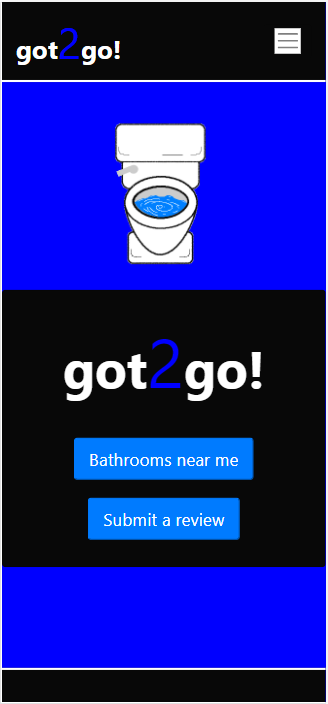
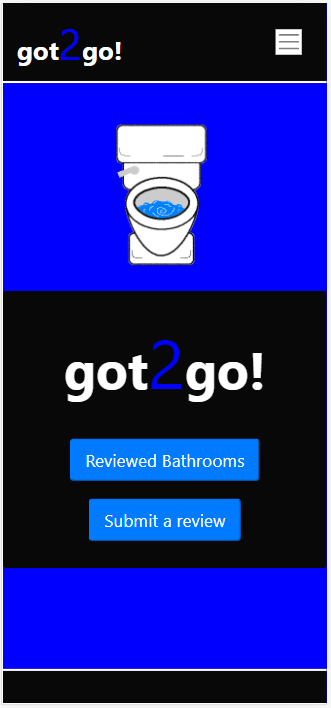
updated readme

Changed region(s): [[0.0, 0.0, 1.0, 1.0], [0.3963, 0.1562, 0.6402, 0.375], [0.8232, 0.0312, 0.9146, 0.0938]]

diff --git a/public/brReview.html b/public/brReview.html
@@ -13,7 +13,7 @@
         integrity="sha384-ho+j7jyWK8fNQe+A12Hb8AhRq26LrZ/JpcUGGOn+Y7RsweNrtN/tE3MoK7ZeZDyx"
         crossorigin="anonymous"></script>
     <link rel="stylesheet" href="./css/styles.css">
-    <title>got2go! Review</title>
+    <title>got2go! Submit Review</title>
 </head>
 
 <body>
@@ -115,7 +115,7 @@
                             aria-describedby="inputGroup-sizing-default">
                     </div>
                     <div class="row justify-content-center">
-                        <a href="#" class="btn btn-primary text-center">Submit Review</a>
+                        <a href="./brSearch.html" class="btn btn-primary text-center">Submit Review</a>
                     </div>
                 </div>
             </div>

diff --git a/public/brSearch.html b/public/brSearch.html
@@ -14,7 +14,7 @@
         crossorigin="anonymous"></script>
     <script src="https://maps.googleapis.com/maps/api/js?key=AIzaSyDgyFqoQN9yTK2_PpFtv5qgO3ynJdL9Bls&libraries=places"></script>
     <link rel="stylesheet" href="./css/styles.css">
-    <title>got2go! Search</title>
+    <title>got2go! Reviewed Bathrooms</title>
 </head>
 
 <body onload="getPlacesLocation()">

diff --git a/README.md b/README.md
@@ -3,7 +3,7 @@
 
 ## Description
 
-A user friendly application that allows the user to search for a specific public bathroom as well as bathrooms near them with ratings from previous users to go along with their search. The user will have the option to submit their own review of their experience as well. Enjoy! 
+A user friendly application that allows the user to submit a review of a public bathroom. 
 
 ## Table of Contents 
 
@@ -13,15 +13,15 @@ A user friendly application that allows the user to search for a specific public
 
 * [License](#license)
 
-* [Contributing](#contributing)
-
 * [Tests](#tests)
 
 * [Links](#links)
 
 * [Screenshots](#screenshots)
 
-* [Contributors](#contributors)
+* [Creators](#creators)
+
+* [Contributing](#contributing)
 
 * [Questions](#questions)
 
@@ -35,23 +35,20 @@ npm i
 
 ## Usage
 
-No dev or global dependencies are required
+* add
+* cordova
+* cordova-plugin-geolocation
+* express
+* mysql2
+* plugin
+* sequelize
 
 ## License
 
 This project is licensed under the Unlicense license.
-  
-## Contributing
 
+## Tests - N/A
 
-
-## Tests
-
-To run tests, run the following command:
-
-```
-npm test
-```
 ## Links
 
 * Github Repository - https://github.com/ElijahFlanders96/Project_2.git
@@ -60,19 +57,24 @@ npm test
 ## Screenshots: Mobile-first view
 
 ### Home page
-![HomePage](./public/assets/home.PNG)
+![Home Page](./public/assets/home.PNG)
 
-### Search page
-![SearchPage](./public/assets/search.PNG)
+### Reviewed bathrooms page
+![Reviewed Bathrooms Page](./public/assets/search.PNG)
 
-### Review page
-![ReviewPage](./public/assets/review.PNG)
+### Submit review page
+![Submit Review Page](./public/assets/review.PNG)
 
-## Contributors
+## Creators
 * Casey Morgan - You can find more of my work at [cc22389](https://github.com/cc22389/)
 * Elijah Flanders - You can find more of my work at [ElijahFlanders96](http://github.com/ElijahFlanders96/)
 * Kylie Schmidt- You can find more of my work at [kyliemegan24](http://github.com/kyliemegan24/)
 * Raymond Gordon - You can find more of my work at [rjgordon26](http://github.com/rjgordon26/)
+
+## Contributing
+* Gage Eide
+* Dan Mueller
+* Kieran Anthony
 
 ## Questions
 
